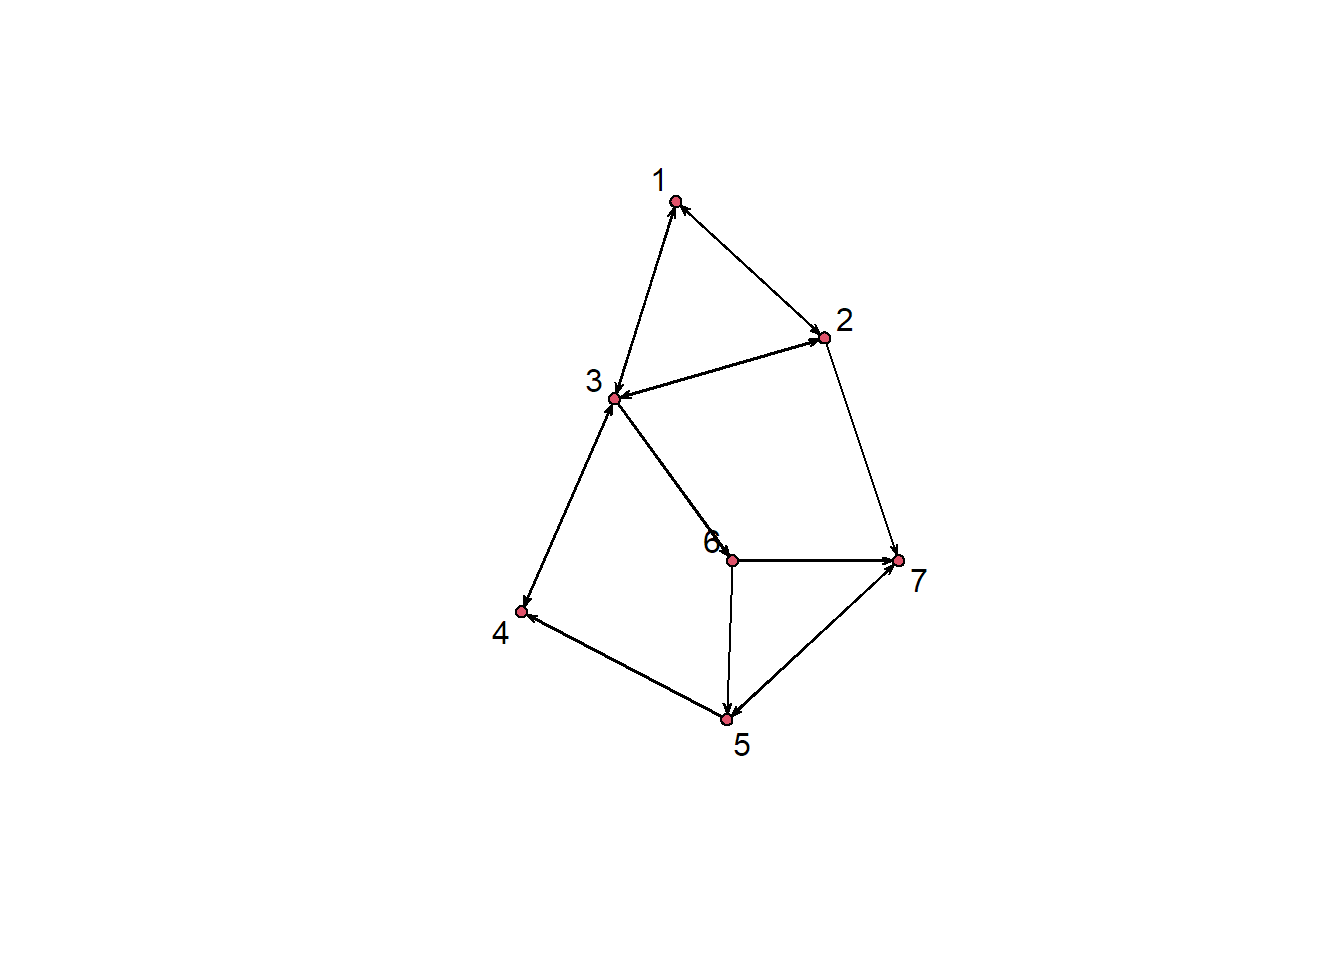
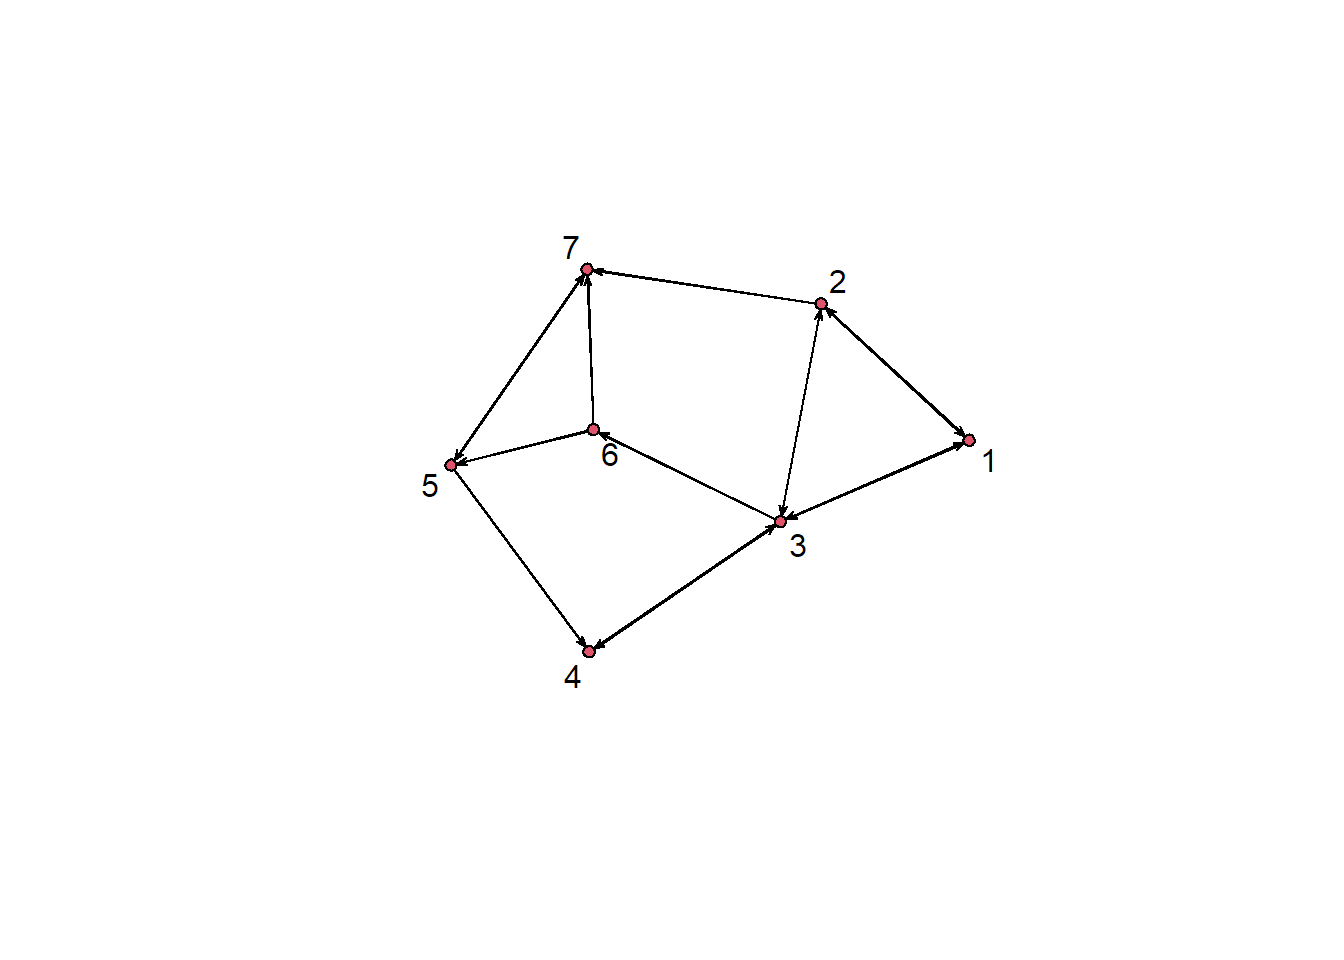
Built site for gh-pages

diff --git a/blogs/2026-08-09-ergm-interpretation_part1/index.html b/blogs/2026-08-09-ergm-interpretation_part1/index.html
@@ -405,7 +405,7 @@ AIC: 333.5  BIC: 337.3  (Smaller is better. MC Std. Err. = 0)</code></pre>
 <div class="code-copy-outer-scaffold"><div class="sourceCode cell-code" id="cb23"><pre class="sourceCode r code-with-copy"><code class="sourceCode r"><span id="cb23-1"><a href="#cb23-1" aria-hidden="true" tabindex="-1"></a><span class="fu">summary</span>(sims <span class="sc">~</span> edges <span class="sc">+</span> mutual <span class="sc">+</span> triangle <span class="sc">+</span> twopath)</span></code></pre></div><button title="Copy to Clipboard" class="code-copy-button"><i class="bi"></i></button></div>
 <div class="cell-output cell-output-stdout">
 <pre><code>   edges   mutual triangle  twopath 
-      70       10       72      244 </code></pre>
+      75       14       82      291 </code></pre>
 </div>
 <div class="code-copy-outer-scaffold"><div class="sourceCode cell-code" id="cb25"><pre class="sourceCode r code-with-copy"><code class="sourceCode r"><span id="cb25-1"><a href="#cb25-1" aria-hidden="true" tabindex="-1"></a><span class="fu">summary</span>(par5 <span class="sc">~</span> edges <span class="sc">+</span> mutual <span class="sc">+</span> triangle <span class="sc">+</span> twopath)</span></code></pre></div><button title="Copy to Clipboard" class="code-copy-button"><i class="bi"></i></button></div>
 <div class="cell-output cell-output-stdout">
@@ -766,7 +766,7 @@ AIC: 263  BIC: 270.4  (Smaller is better. MC Std. Err. = 0)</code></pre>
 <section id="where-this-leaves-us" class="level2">
 <h2 class="anchored" data-anchor-id="where-this-leaves-us">Where this leaves us</h2>
 <p>Everything so far assumes ties are independent of one another given the covariates. That assumption is what makes these models straightforward to fit and interpret — and it is also what the earlier simulation showed to be wrong. The excess reciprocity and clustering in the observed network are precisely the patterns dyadic independent terms cannot capture.</p>
-<p><a href="../2026-08-09-ergm-interpretaion_part2/index.qmd">The next post</a> takes up dyadic dependent terms along with the model degeneracy, and how to check whether a fitted model actually reproduces the network you started with.</p>
+<p><a href="../../blogs/2026-08-09-ergm-interpretation_part2/index.html">The next post</a> takes up dyadic dependent terms along with the model degeneracy, and how to check whether a fitted model actually reproduces the network you started with.</p>
 
 
 </section>

diff --git a/blogs.html b/blogs.html
@@ -241,7 +241,7 @@ window.Quarto = {
 
 <div class="quarto-listing quarto-listing-container-grid" id="listing-listing">
 <div class="list grid quarto-listing-cols-3">
-<div class="g-col-1" data-index="0" data-categories="ZXJnbSUyQ3NuYSUyQ3I=" data-listing-date-sort="1786251600000" data-listing-file-modified-sort="1786298945505" data-listing-date-modified-sort="NaN" data-listing-reading-time-sort="7" data-listing-word-count-sort="1255">
+<div class="g-col-1" data-index="0" data-categories="ZXJnbSUyQ3NuYSUyQ3I=" data-listing-date-sort="1786251600000" data-listing-file-modified-sort="1786305661655" data-listing-date-modified-sort="NaN" data-listing-reading-time-sort="7" data-listing-word-count-sort="1255">
 <a href="./blogs/2026-08-09-ergm-interpretation_part1/index.html" class="quarto-grid-link">
 <div class="quarto-grid-item card h-100 card-left">
 <p class="card-img-top"><img src="blogs\2026-08-09-ergm-interpretation_part1\index_files\figure-html\unnamed-chunk-6-1.png" style="height: 150px;"  class="thumbnail-image card-img"/></p>
